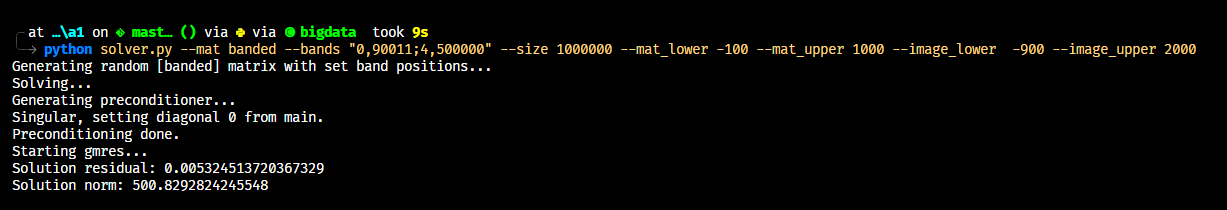
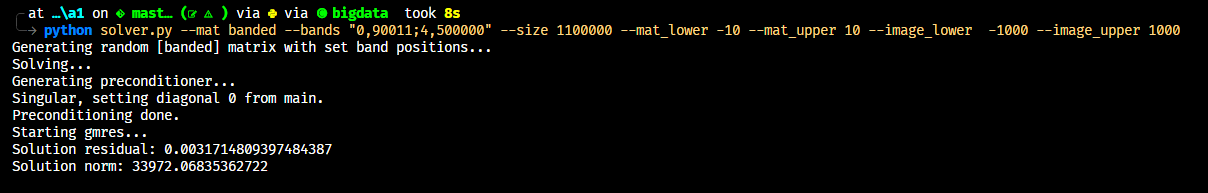
adds better examples for readme

Changed region(s): [[0.0, 0.0311, 0.9801, 0.9326]]

diff --git a/README.md b/README.md
@@ -14,11 +14,11 @@ Solves ${\bf Ax}= {\bf b}$ iteratively and approximately using **GMRES** and the
 ![alt text](docs/banded1.png)
 
 
-- `python solver.py --mat banded --bands "0,90011;4,500000" --size 1000000 --mat_lower -100 --mat_upper 1000 --image_lower  -900 --image_upper 2000`
+- `python solver.py --mat banded --bands "0,90011;4,500000" --size 1100000 --mat_lower -10 --mat_upper 10 --image_lower  -1000 --image_upper 1000`
 ![alt text](docs/banded2.png)
 
 - `python solver.py --mat random --size 20 --density 0.3 --mat_lower -100 --mat-upper 1000 --image_lower -900 image_upper 2000`
 ![alt text](docs/random1.png)
 
-- `python solver.py --mat random --size 10000000 --density 0.0000001 --mat_lower -100 --mat_upper 1000 --image_lower  -900 --image_upper 2000 `
-![alt text](docs/random2.png)
+- `python solver.py --mat random --size 1100000 --density 0.000001 --mat_lower -10 --mat_upper 10 --image_lower  -1000 --image_upper 1000`
+![alt text](docs/random3.png)
